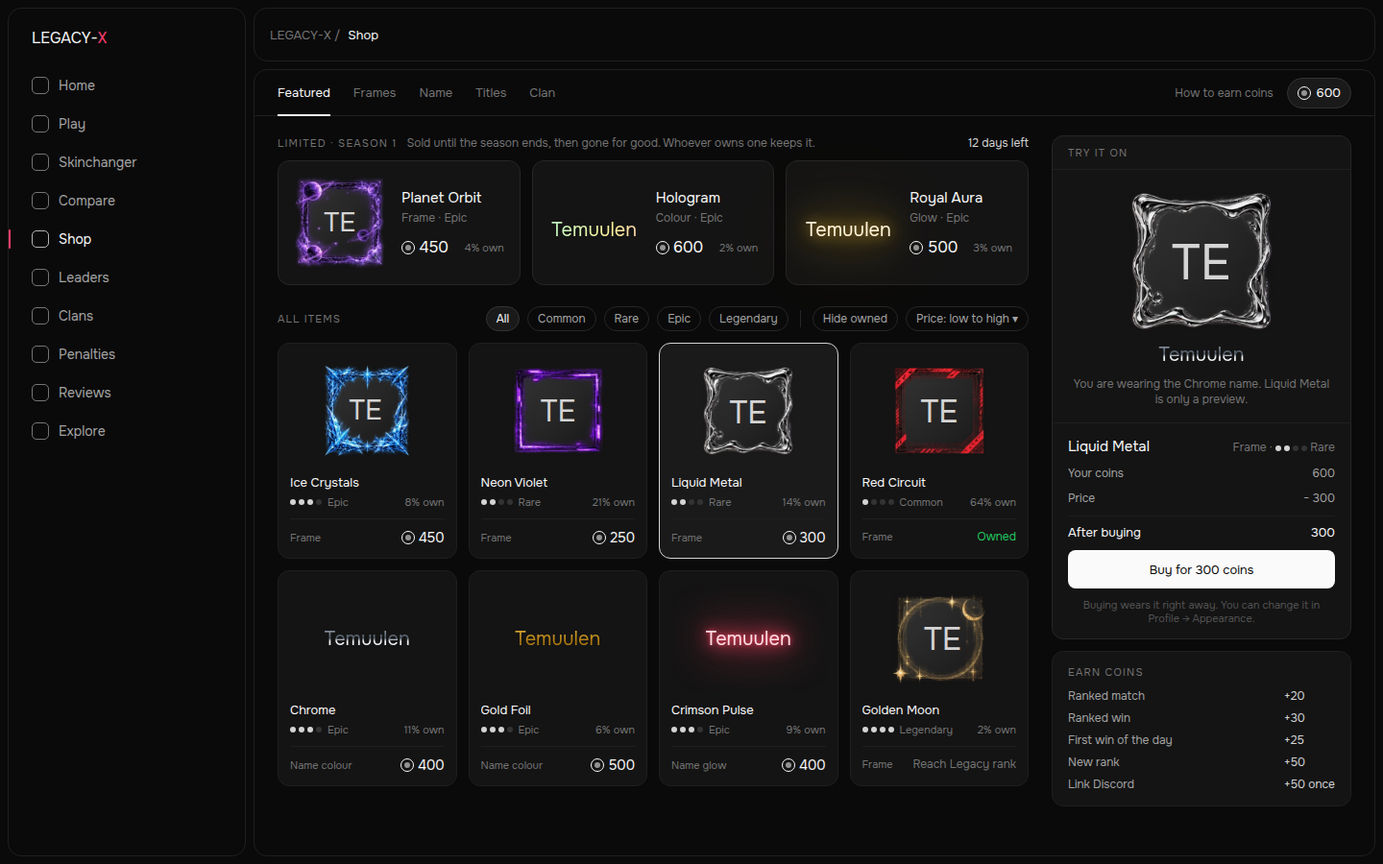
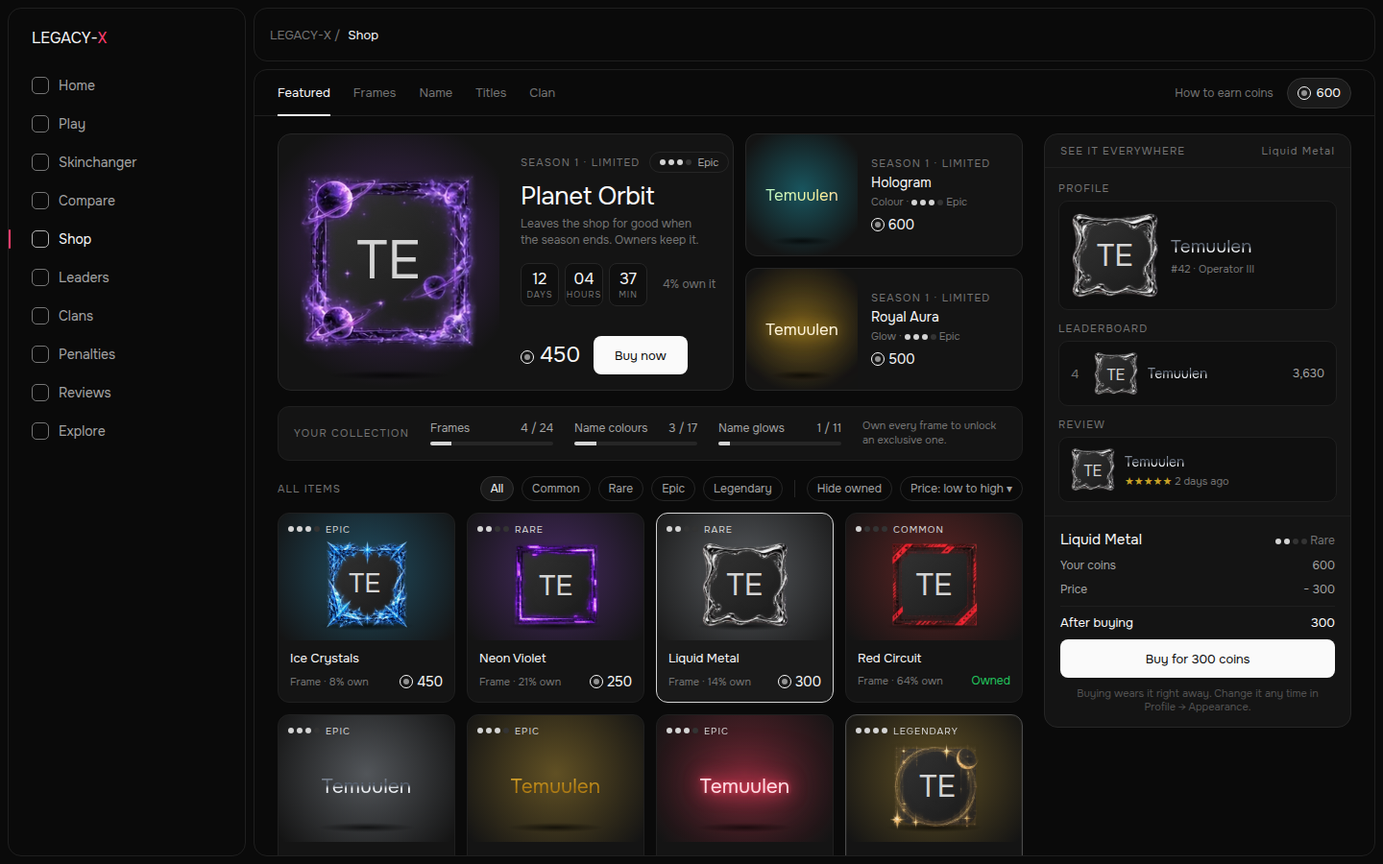
Make the Shop design mock richer: spotlight tiles, a limited-season feature, collection progress and a preview in profile, leaderboard and reviews
Claude-Session: https://claude.ai/code/session_01TcQZBqkxUw3iNcovWih4PN

diff --git a/docs/design/redesign/shop.html b/docs/design/redesign/shop.html
@@ -16,52 +16,69 @@ main{flex:1;min-width:0;padding:8px;display:flex;flex-direction:column;gap:8px}
 .bar{height:48px;border-bottom:1px solid var(--line-soft);display:flex;align-items:center;padding:0 24px;gap:24px;font-size:13px;color:var(--dim);flex-shrink:0}
 .bar .t{height:48px;display:flex;align-items:center;font-weight:600}.bar .t.on{color:var(--text);box-shadow:inset 0 -2px 0 var(--text)}
 .body{padding:20px 24px;overflow:hidden;flex:1;position:relative}
-</style><link rel="stylesheet" href="../../../src/name-effects.css"><style>.coin{display:inline-block;width:14px;height:14px;border-radius:50%;border:1.5px solid currentColor;position:relative;vertical-align:-2px}.coin:after{content:"";position:absolute;inset:3px;border-radius:50%;background:currentColor;opacity:.55}.dots{display:inline-flex;gap:3px}.dots i{width:6px;height:6px;border-radius:50%;background:var(--line-strong)}.dots i.f{background:var(--text-2)}.pill{display:inline-flex;align-items:center;gap:6px;height:26px;padding:0 10px;border:1px solid var(--line);border-radius:999px;font-size:12px;color:var(--muted)}.pill.on{background:var(--raised);color:var(--text);border-color:var(--line-strong)}.btn{height:40px;border-radius:8px;display:flex;align-items:center;justify-content:center;gap:8px;font-weight:600;font-size:13px}.btn.p{background:#fafafa;color:#0a0a0a}.btn.s{border:1px solid var(--line);color:var(--text-2);background:var(--raised)}.lbl{font-size:11px;letter-spacing:1.2px;color:var(--dim);font-weight:600}</style></head><body><div class="app">
+</style><link rel="stylesheet" href="../../../src/name-effects.css"><style>.coin{display:inline-block;width:14px;height:14px;border-radius:50%;border:1.5px solid currentColor;position:relative;vertical-align:-2px}.coin:after{content:"";position:absolute;inset:3px;border-radius:50%;background:currentColor;opacity:.55}.dots{display:inline-flex;gap:3px}.dots i{width:6px;height:6px;border-radius:50%;background:var(--line-strong)}.dots i.f{background:var(--text-2)}.pill{display:inline-flex;align-items:center;gap:6px;height:26px;padding:0 10px;border:1px solid var(--line);border-radius:999px;font-size:12px;color:var(--muted)}.pill.on{background:var(--raised);color:var(--text);border-color:var(--line-strong)}.btn{white-space:nowrap;height:40px;border-radius:8px;display:flex;align-items:center;justify-content:center;gap:8px;font-weight:600;font-size:13px}.btn.p{background:#fafafa;color:#0a0a0a}.btn.s{border:1px solid var(--line);color:var(--text-2);background:var(--raised)}.lbl{font-size:11px;letter-spacing:1.2px;color:var(--dim);font-weight:600}</style><style>
+.spot{position:relative;display:flex;align-items:center;justify-content:center;overflow:hidden}
+.spot:before{content:"";position:absolute;left:50%;top:46%;width:150%;aspect-ratio:1;transform:translate(-50%,-50%);background:radial-gradient(circle,var(--a) 0%,transparent 58%);opacity:.34}
+.spot:after{content:"";position:absolute;left:50%;bottom:10px;width:56%;height:10px;transform:translateX(-50%);background:radial-gradient(ellipse,rgba(0,0,0,.65),transparent 70%)}
+.spot>*{position:relative;z-index:1}.spot.t{padding-top:16px}
+.tag{position:absolute;top:10px;left:10px;font-size:10px;letter-spacing:1px;font-weight:600;color:var(--text-2);display:flex;align-items:center;gap:6px;z-index:2}
+.tile{border-radius:12px;background:var(--card);border:1px solid var(--line-soft);overflow:hidden;display:flex;flex-direction:column;min-width:0}
+.tile.sel{border-color:var(--text-2);background:var(--raised)}
+.tile.leg{border-color:#4a4a4a;box-shadow:inset 0 0 0 1px rgba(255,255,255,.04)}
+.seg{display:inline-flex;flex-direction:column;align-items:center;min-width:40px;border:1px solid var(--line);border-radius:8px;padding:5px 8px;background:var(--panel)}.seg b{font-size:16px}.seg span{font-size:9px;letter-spacing:1px;color:var(--dim)}
+.bar2{height:4px;border-radius:2px;background:var(--line);overflow:hidden}.bar2 i{display:block;height:100%;background:var(--text-2)}
+</style></head><body><div class="app">
 <aside><div class="logo">LEGACY-<b>X</b></div>
 <div class="nav"><i></i>Home</div><div class="nav"><i></i>Play</div><div class="nav"><i></i>Skinchanger</div><div class="nav"><i></i>Compare</div><div class="nav on"><i></i>Shop</div>
 <div class="nav "><i></i>Leaders</div><div class="nav"><i></i>Clans</div><div class="nav "><i></i>Penalties</div><div class="nav"><i></i>Reviews</div><div class="nav"><i></i>Explore</div></aside>
 <main><div class="top">LEGACY-X / <b>Shop</b></div><div class="page">
 <div class="bar"><span class="t on">Featured</span><span class="t">Frames</span><span class="t">Name</span><span class="t">Titles</span><span class="t">Clan</span>
 <span style="margin-left:auto;display:flex;align-items:center;gap:14px"><span style="font-size:12px">How to earn coins</span><span class="pill on" style="height:32px;font-size:13px;font-weight:600;color:var(--text)"><span class="coin"></span> 600</span></span></div>
-<div class="body" style="display:flex;gap:24px;padding:20px 24px">
- <div style="flex:1;min-width:0;display:flex;flex-direction:column;gap:22px">
-  <section>
-   <div style="display:flex;align-items:baseline;gap:10px;margin-bottom:10px"><span class="lbl">LIMITED · SEASON 1</span><span style="font-size:12px;color:var(--dim)">Sold until the season ends, then gone for good. Whoever owns one keeps it.</span><span style="margin-left:auto;font-size:12px;color:var(--text-2);font-weight:600">12 days left</span></div>
-   <div style="display:flex;gap:12px">
-    <div style="flex:1;min-width:0;border:1px solid var(--line);border-radius:12px;background:var(--card);padding:16px;display:flex;align-items:center;gap:16px"><div style="width:96px;display:flex;justify-content:center;flex-shrink:0"><div style="position:relative;width:96px;height:96px;flex-shrink:0"><div style="position:absolute;left:50%;top:50%;width:71px;height:71px;border-radius:11px;transform:translate(calc(-50% + -0.2px),calc(-50% + -0.8px));background:linear-gradient(135deg,#333,#1a1a1a);display:flex;align-items:center;justify-content:center;font-weight:700;font-size:28px;color:#d4d4d4">TE</div><img src="../../../public/frames/planet-orbit.webp" style="position:absolute;inset:0;width:100%;height:100%"></div></div><div style="min-width:0;flex:1"><div style="font-size:15px;font-weight:600">Planet Orbit</div><div style="font-size:12px;color:var(--dim);margin-top:3px;white-space:nowrap">Frame · Epic</div><div style="display:flex;justify-content:space-between;align-items:center;margin-top:12px"><span style="font-weight:700;white-space:nowrap"><span class="coin"></span> 450</span><span style="font-size:11px;color:var(--dim);white-space:nowrap">4% own</span></div></div></div>
-    <div style="flex:1;min-width:0;border:1px solid var(--line);border-radius:12px;background:var(--card);padding:16px;display:flex;align-items:center;gap:16px"><div style="width:96px;display:flex;justify-content:center;flex-shrink:0"><div style="padding-top:14px"><span class="lx-name lx-fx-holo" style="font-size:20px;font-weight:700;">Temuulen</span></div></div><div style="min-width:0;flex:1"><div style="font-size:15px;font-weight:600">Hologram</div><div style="font-size:12px;color:var(--dim);margin-top:3px;white-space:nowrap">Colour · Epic</div><div style="display:flex;justify-content:space-between;align-items:center;margin-top:12px"><span style="font-weight:700;white-space:nowrap"><span class="coin"></span> 600</span><span style="font-size:11px;color:var(--dim);white-space:nowrap">2% own</span></div></div></div>
-    <div style="flex:1;min-width:0;border:1px solid var(--line);border-radius:12px;background:var(--card);padding:16px;display:flex;align-items:center;gap:16px"><div style="width:96px;display:flex;justify-content:center;flex-shrink:0"><div style="padding-top:14px"><span class="lx-name lx-glow-aura" style="font-size:20px;font-weight:700;--name-glow:#fbbf24;">Temuulen</span></div></div><div style="min-width:0;flex:1"><div style="font-size:15px;font-weight:600">Royal Aura</div><div style="font-size:12px;color:var(--dim);margin-top:3px;white-space:nowrap">Glow · Epic</div><div style="display:flex;justify-content:space-between;align-items:center;margin-top:12px"><span style="font-weight:700;white-space:nowrap"><span class="coin"></span> 500</span><span style="font-size:11px;color:var(--dim);white-space:nowrap">3% own</span></div></div></div>
+<div class="body" style="display:flex;gap:22px;padding:18px 24px">
+ <div style="flex:1;min-width:0;display:flex;flex-direction:column;gap:16px">
+  <section style="display:flex;gap:12px;height:268px">
+   <div style="flex:1.8;min-width:0;border:1px solid var(--line);border-radius:14px;background:var(--card);display:flex;overflow:hidden">
+    <div class="spot" style="--a:#a855f7;width:230px;flex-shrink:0"><div style="position:relative;width:190px;height:190px;flex-shrink:0"><div style="position:absolute;left:50%;top:50%;width:141px;height:141px;border-radius:23px;transform:translate(calc(-50% + -0.4px),calc(-50% + -1.5px));background:linear-gradient(135deg,#333,#1a1a1a);display:flex;align-items:center;justify-content:center;font-weight:700;font-size:56px;color:#d4d4d4">TE</div><img src="../../../public/frames/planet-orbit.webp" style="position:absolute;inset:0;width:100%;height:100%"></div></div>
+    <div style="flex:1;padding:18px 22px 16px;display:flex;flex-direction:column;min-width:0">
+     <div style="display:flex;align-items:center;gap:10px"><span class="lbl" style="white-space:nowrap">SEASON 1 · LIMITED</span><span class="pill" style="height:22px;font-size:11px;white-space:nowrap"><span class="dots"><i class="f"></i><i class="f"></i><i class="f"></i><i class=""></i></span> Epic</span></div>
+     <div style="font-size:26px;font-weight:700;margin-top:8px;letter-spacing:-.4px">Planet Orbit</div>
+     <div style="font-size:12px;color:var(--dim);margin-top:4px;line-height:1.45">Leaves the shop for good when the season ends. Owners keep it.</div>
+     <div style="display:flex;gap:6px;margin-top:14px;align-items:center"><div class="seg"><b>12</b><span>DAYS</span></div><div class="seg"><b>04</b><span>HOURS</span></div><div class="seg"><b>37</b><span>MIN</span></div><span style="margin-left:10px;font-size:12px;color:var(--dim);white-space:nowrap">4% own it</span></div>
+     <div style="margin-top:auto;display:flex;align-items:center;gap:14px"><span style="font-size:22px;font-weight:700"><span class="coin"></span> 450</span><div class="btn p" style="padding:0 22px">Buy now</div></div>
+    </div></div>
+   <div style="flex:1.1;min-width:0;display:flex;flex-direction:column;gap:12px">
+    <div class="tile" style="flex:1;flex-direction:row;border-color:var(--line)"><div class="spot" style="--a:#22d3ee;width:116px;flex-shrink:0"><span class="lx-name lx-fx-holo" style="font-size:17px;font-weight:700;">Temuulen</span></div><div style="padding:14px 14px;display:flex;flex-direction:column;justify-content:center;gap:4px"><span class="lbl">SEASON 1 · LIMITED</span><b style="font-size:14px">Hologram</b><span style="font-size:11px;color:var(--dim)">Colour · <span class="dots"><i class="f"></i><i class="f"></i><i class="f"></i><i class=""></i></span> Epic</span><b style="font-size:14px;margin-top:4px"><span class="coin"></span> 600</b></div></div>
+    <div class="tile" style="flex:1;flex-direction:row;border-color:var(--line)"><div class="spot" style="--a:#fbbf24;width:116px;flex-shrink:0"><span class="lx-name lx-glow-aura" style="font-size:17px;font-weight:700;--name-glow:#fbbf24;">Temuulen</span></div><div style="padding:14px 14px;display:flex;flex-direction:column;justify-content:center;gap:4px"><span class="lbl">SEASON 1 · LIMITED</span><b style="font-size:14px">Royal Aura</b><span style="font-size:11px;color:var(--dim)">Glow · <span class="dots"><i class="f"></i><i class="f"></i><i class="f"></i><i class=""></i></span> Epic</span><b style="font-size:14px;margin-top:4px"><span class="coin"></span> 500</b></div></div>
    </div>
   </section>
-  <section style="flex:1;min-width:0">
+  <section style="display:flex;gap:22px;border:1px solid var(--line-soft);border-radius:12px;background:var(--card);padding:12px 16px;align-items:center">
+   <span class="lbl">YOUR COLLECTION</span>
+   <div style="flex:1"><div style="display:flex;justify-content:space-between;font-size:12px;color:var(--muted);margin-bottom:6px"><span>Frames</span><b>4 / 24</b></div><div class="bar2"><i style="width:17%"></i></div></div>
+   <div style="flex:1"><div style="display:flex;justify-content:space-between;font-size:12px;color:var(--muted);margin-bottom:6px"><span>Name colours</span><b>3 / 17</b></div><div class="bar2"><i style="width:18%"></i></div></div>
+   <div style="flex:1"><div style="display:flex;justify-content:space-between;font-size:12px;color:var(--muted);margin-bottom:6px"><span>Name glows</span><b>1 / 11</b></div><div class="bar2"><i style="width:9%"></i></div></div>
+   <span style="font-size:11px;color:var(--dim);max-width:150px;line-height:1.4">Own every frame to unlock an exclusive one.</span>
+  </section>
+  <section style="flex:1;min-height:0">
    <div style="display:flex;align-items:center;gap:8px;margin-bottom:12px"><span class="lbl">ALL ITEMS</span><span style="flex:1"></span>
-    <span class="pill on">All</span><span class="pill">Common</span><span class="pill">Rare</span><span class="pill">Epic</span><span class="pill">Legendary</span>
-    <span style="width:1px;height:18px;background:var(--line);margin:0 4px"></span><span class="pill">Hide owned</span><span class="pill">Price: low to high ▾</span></div>
-   <div style="display:grid;grid-template-columns:repeat(4,1fr);gap:12px"><div style="border:1px solid var(--line-soft);background:var(--card);border-radius:12px;padding:14px 12px 12px;display:flex;flex-direction:column;gap:10px;min-width:0"><div style="height:112px;display:flex;align-items:center;justify-content:center;overflow:hidden"><div style="position:relative;width:96px;height:96px;flex-shrink:0"><div style="position:absolute;left:50%;top:50%;width:72px;height:72px;border-radius:12px;transform:translate(calc(-50% + -1.7px),calc(-50% + -0.6px));background:linear-gradient(135deg,#333,#1a1a1a);display:flex;align-items:center;justify-content:center;font-weight:700;font-size:29px;color:#d4d4d4">TE</div><img src="../../../public/frames/ice-crystals.webp" style="position:absolute;inset:0;width:100%;height:100%"></div></div><div><div style="font-size:13px;font-weight:600;white-space:nowrap;overflow:hidden;text-overflow:ellipsis">Ice Crystals</div><div style="display:flex;justify-content:space-between;align-items:center;margin-top:5px;font-size:11px;color:var(--dim)"><span style="display:flex;align-items:center;gap:6px"><span class="dots"><i class="f"></i><i class="f"></i><i class="f"></i><i class=""></i></span> Epic</span><span>8% own</span></div></div><div style="display:flex;justify-content:space-between;align-items:center;border-top:1px solid var(--line-soft);padding-top:10px"><span style="font-size:11px;color:var(--dim)">Frame</span><span style="font-weight:700;font-size:14px"><span class="coin"></span> 450</span></div></div><div style="border:1px solid var(--line-soft);background:var(--card);border-radius:12px;padding:14px 12px 12px;display:flex;flex-direction:column;gap:10px;min-width:0"><div style="height:112px;display:flex;align-items:center;justify-content:center;overflow:hidden"><div style="position:relative;width:96px;height:96px;flex-shrink:0"><div style="position:absolute;left:50%;top:50%;width:77px;height:77px;border-radius:12px;transform:translate(calc(-50% + 0.4px),calc(-50% + 0.6px));background:linear-gradient(135deg,#333,#1a1a1a);display:flex;align-items:center;justify-content:center;font-weight:700;font-size:31px;color:#d4d4d4">TE</div><img src="../../../public/frames/neon-violet.webp" style="position:absolute;inset:0;width:100%;height:100%"></div></div><div><div style="font-size:13px;font-weight:600;white-space:nowrap;overflow:hidden;text-overflow:ellipsis">Neon Violet</div><div style="display:flex;justify-content:space-between;align-items:center;margin-top:5px;font-size:11px;color:var(--dim)"><span style="display:flex;align-items:center;gap:6px"><span class="dots"><i class="f"></i><i class="f"></i><i class=""></i><i class=""></i></span> Rare</span><span>21% own</span></div></div><div style="display:flex;justify-content:space-between;align-items:center;border-top:1px solid var(--line-soft);padding-top:10px"><span style="font-size:11px;color:var(--dim)">Frame</span><span style="font-weight:700;font-size:14px"><span class="coin"></span> 250</span></div></div><div style="border:1px solid var(--text-2);background:var(--raised);border-radius:12px;padding:14px 12px 12px;display:flex;flex-direction:column;gap:10px;min-width:0"><div style="height:112px;display:flex;align-items:center;justify-content:center;overflow:hidden"><div style="position:relative;width:96px;height:96px;flex-shrink:0"><div style="position:absolute;left:50%;top:50%;width:83px;height:83px;border-radius:13px;transform:translate(calc(-50% + -0.2px),calc(-50% + 1.0px));background:linear-gradient(135deg,#333,#1a1a1a);display:flex;align-items:center;justify-content:center;font-weight:700;font-size:33px;color:#d4d4d4">TE</div><img src="../../../public/frames/liquid-metal.webp" style="position:absolute;inset:0;width:100%;height:100%"></div></div><div><div style="font-size:13px;font-weight:600;white-space:nowrap;overflow:hidden;text-overflow:ellipsis">Liquid Metal</div><div style="display:flex;justify-content:space-between;align-items:center;margin-top:5px;font-size:11px;color:var(--dim)"><span style="display:flex;align-items:center;gap:6px"><span class="dots"><i class="f"></i><i class="f"></i><i class=""></i><i class=""></i></span> Rare</span><span>14% own</span></div></div><div style="display:flex;justify-content:space-between;align-items:center;border-top:1px solid var(--line-soft);padding-top:10px"><span style="font-size:11px;color:var(--dim)">Frame</span><span style="font-weight:700;font-size:14px"><span class="coin"></span> 300</span></div></div><div style="border:1px solid var(--line-soft);background:var(--card);border-radius:12px;padding:14px 12px 12px;display:flex;flex-direction:column;gap:10px;min-width:0"><div style="height:112px;display:flex;align-items:center;justify-content:center;overflow:hidden"><div style="position:relative;width:96px;height:96px;flex-shrink:0"><div style="position:absolute;left:50%;top:50%;width:83px;height:83px;border-radius:13px;transform:translate(calc(-50% + 0.2px),calc(-50% + 0.4px));background:linear-gradient(135deg,#333,#1a1a1a);display:flex;align-items:center;justify-content:center;font-weight:700;font-size:33px;color:#d4d4d4">TE</div><img src="../../../public/frames/red-circuit.webp" style="position:absolute;inset:0;width:100%;height:100%"></div></div><div><div style="font-size:13px;font-weight:600;white-space:nowrap;overflow:hidden;text-overflow:ellipsis">Red Circuit</div><div style="display:flex;justify-content:space-between;align-items:center;margin-top:5px;font-size:11px;color:var(--dim)"><span style="display:flex;align-items:center;gap:6px"><span class="dots"><i class="f"></i><i class=""></i><i class=""></i><i class=""></i></span> Common</span><span>64% own</span></div></div><div style="display:flex;justify-content:space-between;align-items:center;border-top:1px solid var(--line-soft);padding-top:10px"><span style="font-size:11px;color:var(--dim)">Frame</span><span style="font-size:12px;color:var(--green);font-weight:600">Owned</span></div></div><div style="border:1px solid var(--line-soft);background:var(--card);border-radius:12px;padding:14px 12px 12px;display:flex;flex-direction:column;gap:10px;min-width:0"><div style="height:112px;display:flex;align-items:center;justify-content:center;overflow:hidden"><span class="lx-name lx-fx-chrome" style="font-size:20px;font-weight:700;">Temuulen</span></div><div><div style="font-size:13px;font-weight:600;white-space:nowrap;overflow:hidden;text-overflow:ellipsis">Chrome</div><div style="display:flex;justify-content:space-between;align-items:center;margin-top:5px;font-size:11px;color:var(--dim)"><span style="display:flex;align-items:center;gap:6px"><span class="dots"><i class="f"></i><i class="f"></i><i class="f"></i><i class=""></i></span> Epic</span><span>11% own</span></div></div><div style="display:flex;justify-content:space-between;align-items:center;border-top:1px solid var(--line-soft);padding-top:10px"><span style="font-size:11px;color:var(--dim)">Name colour</span><span style="font-weight:700;font-size:14px"><span class="coin"></span> 400</span></div></div><div style="border:1px solid var(--line-soft);background:var(--card);border-radius:12px;padding:14px 12px 12px;display:flex;flex-direction:column;gap:10px;min-width:0"><div style="height:112px;display:flex;align-items:center;justify-content:center;overflow:hidden"><span class="lx-name lx-fx-gold" style="font-size:20px;font-weight:700;">Temuulen</span></div><div><div style="font-size:13px;font-weight:600;white-space:nowrap;overflow:hidden;text-overflow:ellipsis">Gold Foil</div><div style="display:flex;justify-content:space-between;align-items:center;margin-top:5px;font-size:11px;color:var(--dim)"><span style="display:flex;align-items:center;gap:6px"><span class="dots"><i class="f"></i><i class="f"></i><i class="f"></i><i class=""></i></span> Epic</span><span>6% own</span></div></div><div style="display:flex;justify-content:space-between;align-items:center;border-top:1px solid var(--line-soft);padding-top:10px"><span style="font-size:11px;color:var(--dim)">Name colour</span><span style="font-weight:700;font-size:14px"><span class="coin"></span> 500</span></div></div><div style="border:1px solid var(--line-soft);background:var(--card);border-radius:12px;padding:14px 12px 12px;display:flex;flex-direction:column;gap:10px;min-width:0"><div style="height:112px;display:flex;align-items:center;justify-content:center;overflow:hidden"><span class="lx-name lx-glow-pulse" style="font-size:20px;font-weight:700;--name-glow:#f43f5e;">Temuulen</span></div><div><div style="font-size:13px;font-weight:600;white-space:nowrap;overflow:hidden;text-overflow:ellipsis">Crimson Pulse</div><div style="display:flex;justify-content:space-between;align-items:center;margin-top:5px;font-size:11px;color:var(--dim)"><span style="display:flex;align-items:center;gap:6px"><span class="dots"><i class="f"></i><i class="f"></i><i class="f"></i><i class=""></i></span> Epic</span><span>9% own</span></div></div><div style="display:flex;justify-content:space-between;align-items:center;border-top:1px solid var(--line-soft);padding-top:10px"><span style="font-size:11px;color:var(--dim)">Name glow</span><span style="font-weight:700;font-size:14px"><span class="coin"></span> 400</span></div></div><div style="border:1px solid var(--line-soft);background:var(--card);border-radius:12px;padding:14px 12px 12px;display:flex;flex-direction:column;gap:10px;min-width:0"><div style="height:112px;display:flex;align-items:center;justify-content:center;overflow:hidden"><div style="position:relative;width:96px;height:96px;flex-shrink:0"><div style="position:absolute;left:50%;top:50%;width:83px;height:83px;border-radius:13px;transform:translate(calc(-50% + 3.7px),calc(-50% + 0.4px));background:linear-gradient(135deg,#333,#1a1a1a);display:flex;align-items:center;justify-content:center;font-weight:700;font-size:33px;color:#d4d4d4">TE</div><img src="../../../public/frames/golden-moon.webp" style="position:absolute;inset:0;width:100%;height:100%"></div></div><div><div style="font-size:13px;font-weight:600;white-space:nowrap;overflow:hidden;text-overflow:ellipsis">Golden Moon</div><div style="display:flex;justify-content:space-between;align-items:center;margin-top:5px;font-size:11px;color:var(--dim)"><span style="display:flex;align-items:center;gap:6px"><span class="dots"><i class="f"></i><i class="f"></i><i class="f"></i><i class="f"></i></span> Legendary</span><span>2% own</span></div></div><div style="display:flex;justify-content:space-between;align-items:center;border-top:1px solid var(--line-soft);padding-top:10px"><span style="font-size:11px;color:var(--dim)">Frame</span><span style="font-size:12px;color:var(--dim)">Reach Legacy rank</span></div></div></div>
+    <span class="pill on">All</span><span class="pill">Common</span><span class="pill">Rare</span><span class="pill">Epic</span><span class="pill">Legendary</span><span style="width:1px;height:18px;background:var(--line);margin:0 4px"></span><span class="pill">Hide owned</span><span class="pill">Price: low to high ▾</span></div>
+   <div style="display:grid;grid-template-columns:repeat(4,1fr);gap:12px"><div class="tile"><div class="spot t" style="--a:#38bdf8;height:132px"><span class="tag"><span class="dots"><i class="f"></i><i class="f"></i><i class="f"></i><i class=""></i></span> EPIC</span><div style="position:relative;width:92px;height:92px;flex-shrink:0"><div style="position:absolute;left:50%;top:50%;width:69px;height:69px;border-radius:11px;transform:translate(calc(-50% + -1.7px),calc(-50% + -0.6px));background:linear-gradient(135deg,#333,#1a1a1a);display:flex;align-items:center;justify-content:center;font-weight:700;font-size:28px;color:#d4d4d4">TE</div><img src="../../../public/frames/ice-crystals.webp" style="position:absolute;inset:0;width:100%;height:100%"></div></div><div style="padding:10px 12px 12px"><div style="font-size:13px;font-weight:600;white-space:nowrap;overflow:hidden;text-overflow:ellipsis">Ice Crystals</div><div style="display:flex;justify-content:space-between;align-items:center;margin-top:7px"><span style="font-size:11px;color:var(--dim)">Frame · 8% own</span><span style="font-weight:700;font-size:14px;white-space:nowrap"><span class="coin"></span> 450</span></div></div></div><div class="tile"><div class="spot t" style="--a:#a855f7;height:132px"><span class="tag"><span class="dots"><i class="f"></i><i class="f"></i><i class=""></i><i class=""></i></span> RARE</span><div style="position:relative;width:92px;height:92px;flex-shrink:0"><div style="position:absolute;left:50%;top:50%;width:74px;height:74px;border-radius:12px;transform:translate(calc(-50% + 0.4px),calc(-50% + 0.6px));background:linear-gradient(135deg,#333,#1a1a1a);display:flex;align-items:center;justify-content:center;font-weight:700;font-size:30px;color:#d4d4d4">TE</div><img src="../../../public/frames/neon-violet.webp" style="position:absolute;inset:0;width:100%;height:100%"></div></div><div style="padding:10px 12px 12px"><div style="font-size:13px;font-weight:600;white-space:nowrap;overflow:hidden;text-overflow:ellipsis">Neon Violet</div><div style="display:flex;justify-content:space-between;align-items:center;margin-top:7px"><span style="font-size:11px;color:var(--dim)">Frame · 21% own</span><span style="font-weight:700;font-size:14px;white-space:nowrap"><span class="coin"></span> 250</span></div></div></div><div class="tile sel"><div class="spot t" style="--a:#cbd5e1;height:132px"><span class="tag"><span class="dots"><i class="f"></i><i class="f"></i><i class=""></i><i class=""></i></span> RARE</span><div style="position:relative;width:92px;height:92px;flex-shrink:0"><div style="position:absolute;left:50%;top:50%;width:79px;height:79px;border-radius:13px;transform:translate(calc(-50% + -0.2px),calc(-50% + 0.9px));background:linear-gradient(135deg,#333,#1a1a1a);display:flex;align-items:center;justify-content:center;font-weight:700;font-size:32px;color:#d4d4d4">TE</div><img src="../../../public/frames/liquid-metal.webp" style="position:absolute;inset:0;width:100%;height:100%"></div></div><div style="padding:10px 12px 12px"><div style="font-size:13px;font-weight:600;white-space:nowrap;overflow:hidden;text-overflow:ellipsis">Liquid Metal</div><div style="display:flex;justify-content:space-between;align-items:center;margin-top:7px"><span style="font-size:11px;color:var(--dim)">Frame · 14% own</span><span style="font-weight:700;font-size:14px;white-space:nowrap"><span class="coin"></span> 300</span></div></div></div><div class="tile"><div class="spot t" style="--a:#ef4444;height:132px"><span class="tag"><span class="dots"><i class="f"></i><i class=""></i><i class=""></i><i class=""></i></span> COMMON</span><div style="position:relative;width:92px;height:92px;flex-shrink:0"><div style="position:absolute;left:50%;top:50%;width:79px;height:79px;border-radius:13px;transform:translate(calc(-50% + 0.2px),calc(-50% + 0.4px));background:linear-gradient(135deg,#333,#1a1a1a);display:flex;align-items:center;justify-content:center;font-weight:700;font-size:32px;color:#d4d4d4">TE</div><img src="../../../public/frames/red-circuit.webp" style="position:absolute;inset:0;width:100%;height:100%"></div></div><div style="padding:10px 12px 12px"><div style="font-size:13px;font-weight:600;white-space:nowrap;overflow:hidden;text-overflow:ellipsis">Red Circuit</div><div style="display:flex;justify-content:space-between;align-items:center;margin-top:7px"><span style="font-size:11px;color:var(--dim)">Frame · 64% own</span><span style="font-size:12px;color:var(--green);font-weight:600">Owned</span></div></div></div><div class="tile"><div class="spot t" style="--a:#cbd5e1;height:132px"><span class="tag"><span class="dots"><i class="f"></i><i class="f"></i><i class="f"></i><i class=""></i></span> EPIC</span><span class="lx-name lx-fx-chrome" style="font-size:21px;font-weight:700;">Temuulen</span></div><div style="padding:10px 12px 12px"><div style="font-size:13px;font-weight:600;white-space:nowrap;overflow:hidden;text-overflow:ellipsis">Chrome</div><div style="display:flex;justify-content:space-between;align-items:center;margin-top:7px"><span style="font-size:11px;color:var(--dim)">Name colour · 11% own</span><span style="font-weight:700;font-size:14px;white-space:nowrap"><span class="coin"></span> 400</span></div></div></div><div class="tile"><div class="spot t" style="--a:#f5c542;height:132px"><span class="tag"><span class="dots"><i class="f"></i><i class="f"></i><i class="f"></i><i class=""></i></span> EPIC</span><span class="lx-name lx-fx-gold" style="font-size:21px;font-weight:700;">Temuulen</span></div><div style="padding:10px 12px 12px"><div style="font-size:13px;font-weight:600;white-space:nowrap;overflow:hidden;text-overflow:ellipsis">Gold Foil</div><div style="display:flex;justify-content:space-between;align-items:center;margin-top:7px"><span style="font-size:11px;color:var(--dim)">Name colour · 6% own</span><span style="font-weight:700;font-size:14px;white-space:nowrap"><span class="coin"></span> 500</span></div></div></div><div class="tile"><div class="spot t" style="--a:#f43f5e;height:132px"><span class="tag"><span class="dots"><i class="f"></i><i class="f"></i><i class="f"></i><i class=""></i></span> EPIC</span><span class="lx-name lx-glow-pulse" style="font-size:21px;font-weight:700;--name-glow:#f43f5e;">Temuulen</span></div><div style="padding:10px 12px 12px"><div style="font-size:13px;font-weight:600;white-space:nowrap;overflow:hidden;text-overflow:ellipsis">Crimson Pulse</div><div style="display:flex;justify-content:space-between;align-items:center;margin-top:7px"><span style="font-size:11px;color:var(--dim)">Name glow · 9% own</span><span style="font-weight:700;font-size:14px;white-space:nowrap"><span class="coin"></span> 400</span></div></div></div><div class="tile leg"><div class="spot t" style="--a:#f5c542;height:132px"><span class="tag"><span class="dots"><i class="f"></i><i class="f"></i><i class="f"></i><i class="f"></i></span> LEGENDARY</span><div style="position:relative;width:92px;height:92px;flex-shrink:0"><div style="position:absolute;left:50%;top:50%;width:79px;height:79px;border-radius:13px;transform:translate(calc(-50% + 3.6px),calc(-50% + 0.4px));background:linear-gradient(135deg,#333,#1a1a1a);display:flex;align-items:center;justify-content:center;font-weight:700;font-size:32px;color:#d4d4d4">TE</div><img src="../../../public/frames/golden-moon.webp" style="position:absolute;inset:0;width:100%;height:100%"></div></div><div style="padding:10px 12px 12px"><div style="font-size:13px;font-weight:600;white-space:nowrap;overflow:hidden;text-overflow:ellipsis">Golden Moon</div><div style="display:flex;justify-content:space-between;align-items:center;margin-top:7px"><span style="font-size:11px;color:var(--dim)">Frame · 2% own</span><span style="font-size:12px;color:var(--dim)">Reach Legacy rank</span></div></div></div></div>
   </section>
  </div>
- <div style="width:312px;flex-shrink:0">
-  <div style="position:sticky;top:0;display:flex;flex-direction:column;gap:12px">
-   <div style="border:1px solid var(--line);border-radius:12px;background:var(--card);overflow:hidden">
-    <div style="padding:10px 16px;border-bottom:1px solid var(--line-soft)" class="lbl">TRY IT ON</div>
-    <div style="padding:20px 16px 16px;display:flex;flex-direction:column;align-items:center;gap:10px;text-align:center">
-     <div style="position:relative;width:150px;height:150px;flex-shrink:0"><div style="position:absolute;left:50%;top:50%;width:129px;height:129px;border-radius:21px;transform:translate(calc(-50% + -0.3px),calc(-50% + 1.5px));background:linear-gradient(135deg,#333,#1a1a1a);display:flex;align-items:center;justify-content:center;font-weight:700;font-size:52px;color:#d4d4d4">TE</div><img src="../../../public/frames/liquid-metal.webp" style="position:absolute;inset:0;width:100%;height:100%"></div>
-     <span class="lx-name lx-fx-chrome" style="font-size:20px;font-weight:700;">Temuulen</span>
-     <div style="font-size:12px;color:var(--dim)">You are wearing the Chrome name. Liquid Metal is only a preview.</div>
-    </div>
-    <div style="border-top:1px solid var(--line-soft);padding:14px 16px;display:flex;flex-direction:column;gap:10px">
-     <div style="display:flex;justify-content:space-between;align-items:baseline"><span style="font-size:15px;font-weight:600">Liquid Metal</span><span style="font-size:12px;color:var(--dim)">Frame · <span class="dots"><i class="f"></i><i class="f"></i><i class=""></i><i class=""></i></span> Rare</span></div>
-     <div style="display:flex;justify-content:space-between;font-size:12px;color:var(--muted)"><span>Your coins</span><span>600</span></div>
-     <div style="display:flex;justify-content:space-between;font-size:12px;color:var(--muted)"><span>Price</span><span>− 300</span></div>
-     <div style="display:flex;justify-content:space-between;font-size:13px;font-weight:600;border-top:1px solid var(--line-soft);padding-top:8px"><span>After buying</span><span>300</span></div>
-     <div class="btn p">Buy for 300 coins</div>
-     <div style="font-size:11px;color:var(--faint);text-align:center">Buying wears it right away. You can change it in Profile → Appearance.</div>
-    </div>
+ <div style="width:320px;flex-shrink:0">
+  <div style="border:1px solid var(--line);border-radius:14px;background:var(--card);overflow:hidden">
+   <div style="padding:10px 16px;border-bottom:1px solid var(--line-soft);display:flex;justify-content:space-between" class="lbl"><span>SEE IT EVERYWHERE</span><span>Liquid Metal</span></div>
+   <div style="padding:14px;display:flex;flex-direction:column;gap:12px">
+    <div><div class="lbl" style="margin-bottom:6px">PROFILE</div><div style="border:1px solid var(--line-soft);border-radius:10px;background:var(--panel);padding:10px 12px"><div style="display:flex;align-items:center;gap:12px"><div style="position:relative;width:92px;height:92px;flex-shrink:0"><div style="position:absolute;left:50%;top:50%;width:79px;height:79px;border-radius:13px;transform:translate(calc(-50% + -0.2px),calc(-50% + 0.9px));background:linear-gradient(135deg,#333,#1a1a1a);display:flex;align-items:center;justify-content:center;font-weight:700;font-size:32px;color:#d4d4d4">TE</div><img src="../../../public/frames/liquid-metal.webp" style="position:absolute;inset:0;width:100%;height:100%"></div><div><span class="lx-name lx-fx-chrome" style="font-size:19px;font-weight:700;">Temuulen</span><div style="font-size:11px;color:var(--dim);margin-top:3px">#42 · Operator III</div></div></div></div></div>
+    <div><div class="lbl" style="margin-bottom:6px">LEADERBOARD</div><div style="border:1px solid var(--line-soft);border-radius:10px;background:var(--panel);padding:10px 12px"><div style="display:flex;align-items:center;gap:10px;font-size:13px"><b style="color:var(--dim);width:14px">4</b><div style="position:relative;width:46px;height:46px;flex-shrink:0"><div style="position:absolute;left:50%;top:50%;width:40px;height:40px;border-radius:6px;transform:translate(calc(-50% + -0.1px),calc(-50% + 0.5px));background:linear-gradient(135deg,#333,#1a1a1a);display:flex;align-items:center;justify-content:center;font-weight:700;font-size:16px;color:#d4d4d4">TE</div><img src="../../../public/frames/liquid-metal.webp" style="position:absolute;inset:0;width:100%;height:100%"></div><span class="lx-name lx-fx-chrome" style="font-size:14px;font-weight:700;">Temuulen</span><span style="margin-left:auto;color:var(--muted);font-size:12px">3,630</span></div></div></div>
+    <div><div class="lbl" style="margin-bottom:6px">REVIEW</div><div style="border:1px solid var(--line-soft);border-radius:10px;background:var(--panel);padding:10px 12px"><div style="display:flex;align-items:center;gap:10px"><div style="position:relative;width:46px;height:46px;flex-shrink:0"><div style="position:absolute;left:50%;top:50%;width:40px;height:40px;border-radius:6px;transform:translate(calc(-50% + -0.1px),calc(-50% + 0.5px));background:linear-gradient(135deg,#333,#1a1a1a);display:flex;align-items:center;justify-content:center;font-weight:700;font-size:16px;color:#d4d4d4">TE</div><img src="../../../public/frames/liquid-metal.webp" style="position:absolute;inset:0;width:100%;height:100%"></div><div><span class="lx-name lx-fx-chrome" style="font-size:14px;font-weight:700;">Temuulen</span><div style="font-size:11px;color:#c9a227;margin-top:2px">★★★★★ <span style="color:var(--dim)">2 days ago</span></div></div></div></div></div>
    </div>
-   <div style="border:1px solid var(--line-soft);border-radius:12px;background:var(--card);padding:14px 16px">
-    <div class="lbl" style="margin-bottom:10px">EARN COINS</div>
-    <div style="display:grid;grid-template-columns:1fr auto;gap:7px 12px;font-size:12px;color:var(--muted)">
-     <span>Ranked match</span><b style="color:var(--text-2)">+20</b><span>Ranked win</span><b style="color:var(--text-2)">+30</b><span>First win of the day</span><b style="color:var(--text-2)">+25</b><span>New rank</span><b style="color:var(--text-2)">+50</b><span>Link Discord</span><b style="color:var(--text-2)">+50 once</b></div>
+   <div style="border-top:1px solid var(--line-soft);padding:14px 16px;display:flex;flex-direction:column;gap:9px">
+    <div style="display:flex;justify-content:space-between;align-items:baseline"><span style="font-size:15px;font-weight:600">Liquid Metal</span><span style="font-size:12px;color:var(--dim)"><span class="dots"><i class="f"></i><i class="f"></i><i class=""></i><i class=""></i></span> Rare</span></div>
+    <div style="display:flex;justify-content:space-between;font-size:12px;color:var(--muted)"><span>Your coins</span><span>600</span></div>
+    <div style="display:flex;justify-content:space-between;font-size:12px;color:var(--muted)"><span>Price</span><span>− 300</span></div>
+    <div style="display:flex;justify-content:space-between;font-size:13px;font-weight:600;border-top:1px solid var(--line-soft);padding-top:8px"><span>After buying</span><span>300</span></div>
+    <div class="btn p">Buy for 300 coins</div>
+    <div style="font-size:11px;color:var(--faint);text-align:center">Buying wears it right away. Change it any time in Profile → Appearance.</div>
    </div>
   </div>
  </div>
